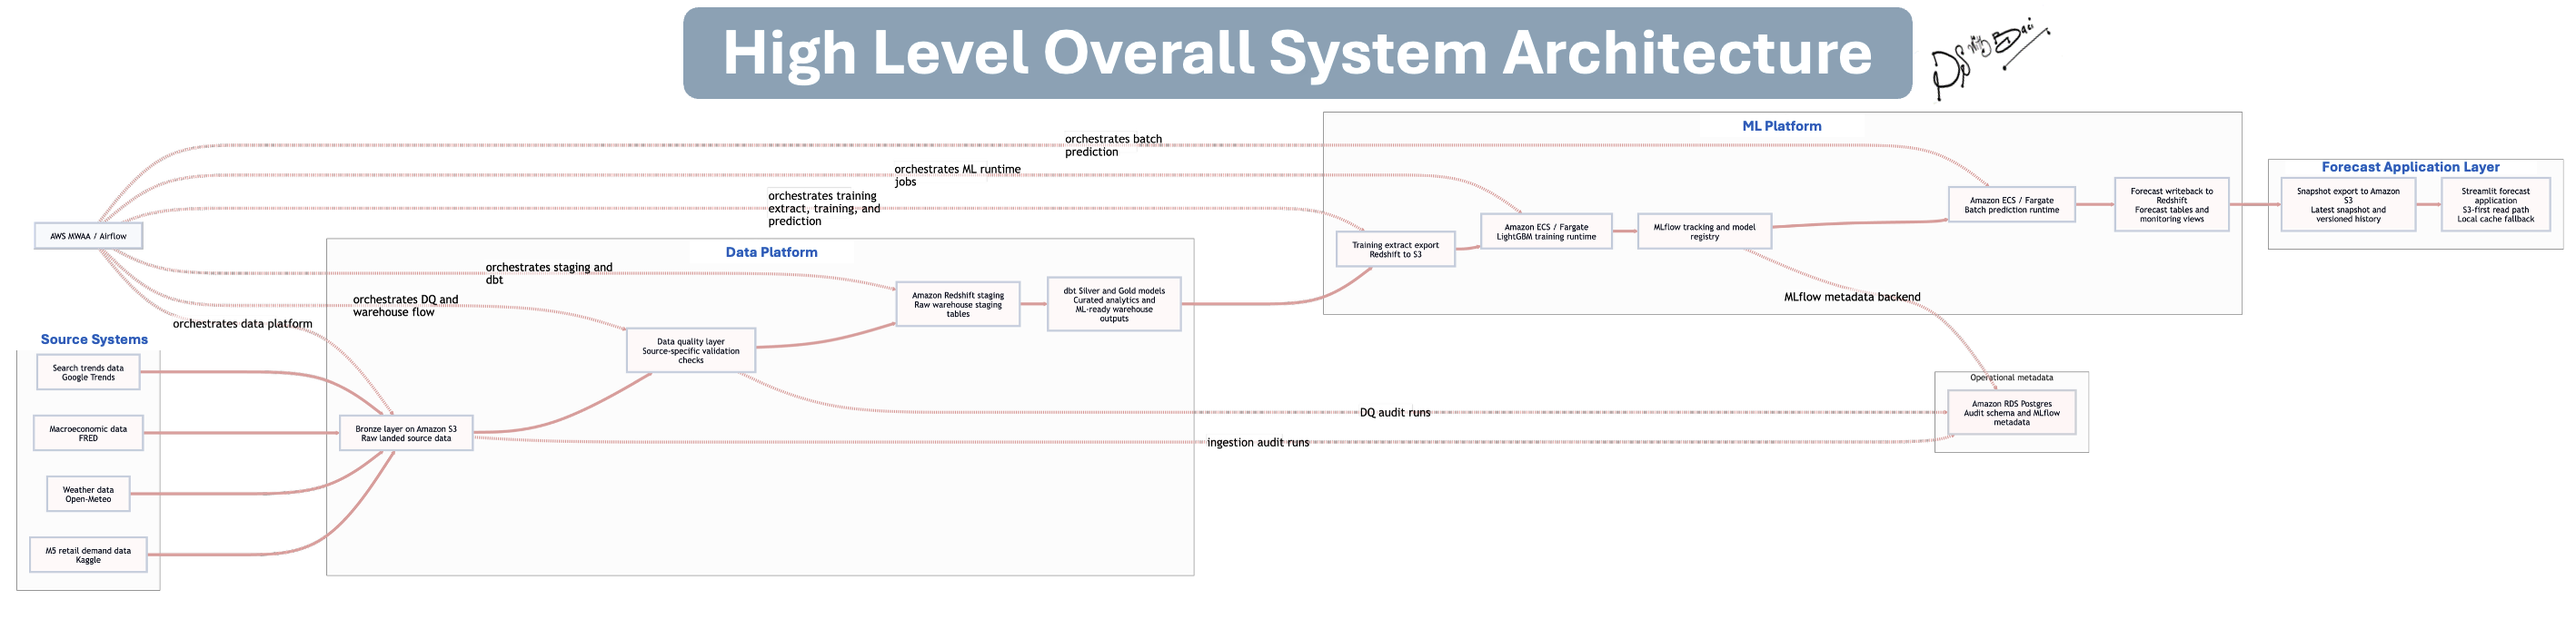
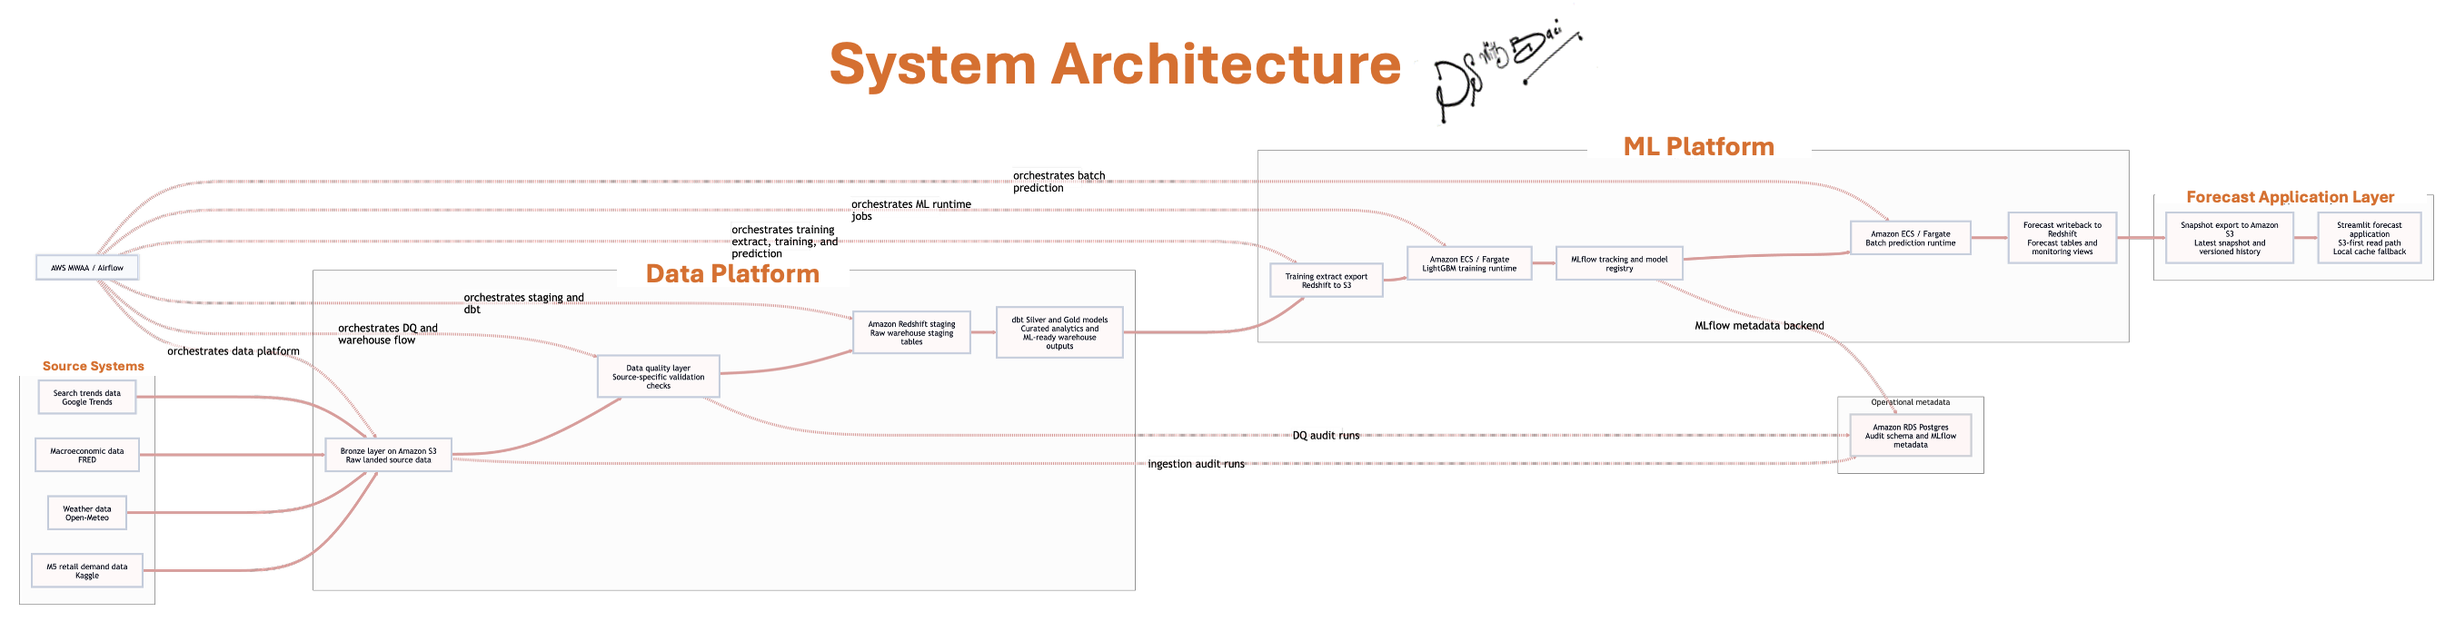
Finalize production documentation, diagrams, and licensing

Changed region(s): [[0.0, 0.0, 1.0, 0.8314], [0.0, 0.8622, 0.1244, 0.9545], [0.8394, 0.2155, 0.8705, 0.2463]]

diff --git a/README.md b/README.md
@@ -3,15 +3,14 @@
 
 Production-grade AWS data platform, warehouse, MLOps, and forecast application for retail demand forecasting.
 
-The repository contains the implemented platform as it exists today. It covers the full path from raw source ingestion to warehouse transformation, model training, batch forecasting, forecast writeback, and snapshot-based application delivery.
+The repository contains the implemented platform. It covers the full path from raw source ingestion to warehouse transformation, model training, batch forecasting, forecast writeback, and snapshot-based application delivery.
 
-![Overall System Architecture](docs/diagrams/overall-system-architecture.png)
-
+![End-to-End-Platform-Summary](docs/diagrams/End-to-End-Platform-Summary2.png)
 
 ## 📖 Contents
 
 - [📌 What this project is](#-what-this-project-is)
-- [✅ Current status](#-current-status)
+- [📌 Current status](#-current-status)
 - [🧱 Platform at a glance](#-platform-at-a-glance)
 - [🗺 Documentation map](#-documentation-map)
 - [🏗 Infrastructure](#-infrastructure)
@@ -21,6 +20,10 @@ The repository contains the implemented platform as it exists today. It covers t
 - [⚙ Developer quickstart](#-developer-quickstart)
 - [🗂 Repository structure](#-repository-structure)
 - [🧭 Operating principles](#-operating-principles)
+- [📄 License](#-license)
+- [👤 Author and contact](#-author-and-contact)
+- [🌐 Data sources and APIs](#-data-sources-and-apis)
+- [🔗 References](#-references)
 
 ## 📌 What this project is
 
@@ -28,9 +31,7 @@ The Global Demand Forecasting Platform is an end-to-end batch forecasting system
 
 It ingests source data, lands raw datasets in Bronze storage, validates them, loads them into Redshift, builds curated dbt models, exports production training extracts, trains and registers models through MLflow, runs ECS-based batch prediction, writes forecasts back to the warehouse, and serves a separate snapshot-based forecast application.
 
-This repository is the source of truth for the implemented platform.
-
-
+![Overall System Architecture](docs/diagrams/overall-system-architecture.png)
 
 ## 📌 Current status
 
@@ -83,7 +84,7 @@ It includes:
 
 ### Modern High Level Infrastructure and IaC Architecture 
 
-![Infrastructure and IaC Architecture](docs/diagrams/infrastructure-iac-architecture.png)
+![Infrastructure and IaC Architecture](docs/diagrams/infrastructure-iac-architecture2.png)
 
 Read the full infrastructure documentation here:
 
@@ -113,7 +114,7 @@ Implemented source families:
 - search trends data from Google Trends
 
 
-![Data Platform Flow](docs/diagrams/data-platform-flow.png)
+![Data Platform Flow](docs/diagrams/data-platform-flow3.png)
 
 
 Read the full data-platform documentation here:
@@ -141,7 +142,7 @@ The current production feature set is based on:
 The training and prediction workflow is orchestrated by MWAA and executed on ECS / Fargate.
 
 
-![ML Platform Flow](docs/diagrams/ml-platform-flow.png)
+![ML Platform Flow](docs/diagrams/ml-platform-flow2.png)
 
 
 Read the full ML-platform documentation here:
@@ -162,6 +163,7 @@ The implemented behavior is:
 - a local cache is written for fallback
 - the Streamlit application reads S3 first, then local cache
 
+![Snapshot Serving Architecture](docs/diagrams/snapshot-serving-architecture.png)
 
 The forecast application setup and run path is referenced through the quickstart and platform documents.
 
@@ -246,7 +248,7 @@ The data platform depends on:
 - the project wheel being available to MWAA
 
 
-![Data Platform Flow](docs/diagrams/data-platform-flow.png) 
+
 
 
 For source setup, audit migration, local run flow, MWAA run flow, and data-platform CI/CD, use:
@@ -292,7 +294,7 @@ Warehouse monitoring outputs include:
 - latest forecast freshness
 
 
-![ML Platform Flow](docs/diagrams/ml-platform-flow.png)
+![ML Platform Flow](docs/diagrams/ml-platform-flow2.png)
 
 ### MLOps and image delivery
 
@@ -304,8 +306,6 @@ The platform has a separate production image deployment path for:
 ### ML Image CI/CD Flow
 ![ML Image CI/CD Flow](docs/diagrams/ml-image-cicd-flow.png)
 
-- the ECS ML runtime image
-- the MLflow image
 
 The manual GitHub workflow is:
 
@@ -340,6 +340,7 @@ The local snapshot export command is:
 
 ```bash
 make export-forecast-app-snapshot
+```
 
 The local application command is:
 
@@ -415,15 +416,14 @@ The operating rules of this repository are:
 * infrastructure, data platform, ML platform, and developer workflow are documented separately and referenced cleanly
 
 
-
-
 ## 📄 License
 
-This project is released under the MIT License.
+This project is released under the Apache License 2.0.
 
 See the full license text in:
 
 - [LICENSE.txt](LICENSE.txt)
+
 
 ## 👤 Author and contact
 
@@ -433,6 +433,43 @@ Connect here:
 
 - [LinkedIn](https://www.linkedin.com/in/basseyakom/)
 - [GitHub](https://github.com/Baci-Ak)
+
+
+
+## 🌐 Data sources and APIs
+
+The platform currently uses the following external data sources and source-access APIs.
+
+These links are the easiest starting point if you want to reuse the same source pattern in your own project or adapt the architecture for a similar workflow system.
+
+### M5 retail demand dataset
+
+The retail demand baseline used in this project comes from the M5 Forecasting dataset on Kaggle.
+
+- [Kaggle M5 competition overview](https://www.kaggle.com/competitions/m5-forecasting-accuracy)
+- [Kaggle API documentation](https://www.kaggle.com/docs/api)
+
+### Weather data
+
+Historical weather inputs are sourced through Open-Meteo.
+
+- [Open-Meteo historical weather API](https://open-meteo.com/en/docs/historical-weather-api)
+
+### Macroeconomic data
+
+Macroeconomic series are sourced from FRED.
+
+- [FRED API overview](https://fred.stlouisfed.org/docs/api/fred/)
+- [FRED API key documentation](https://fred.stlouisfed.org/docs/api/api_key.html)
+
+### Search trends data
+
+Search trend inputs are sourced from Google Trends access patterns.
+
+- [Google Trends](https://trends.google.com/)
+- [Pytrends project](https://github.com/GeneralMills/pytrends)
+
+
 
 ## 🔗 References
 
